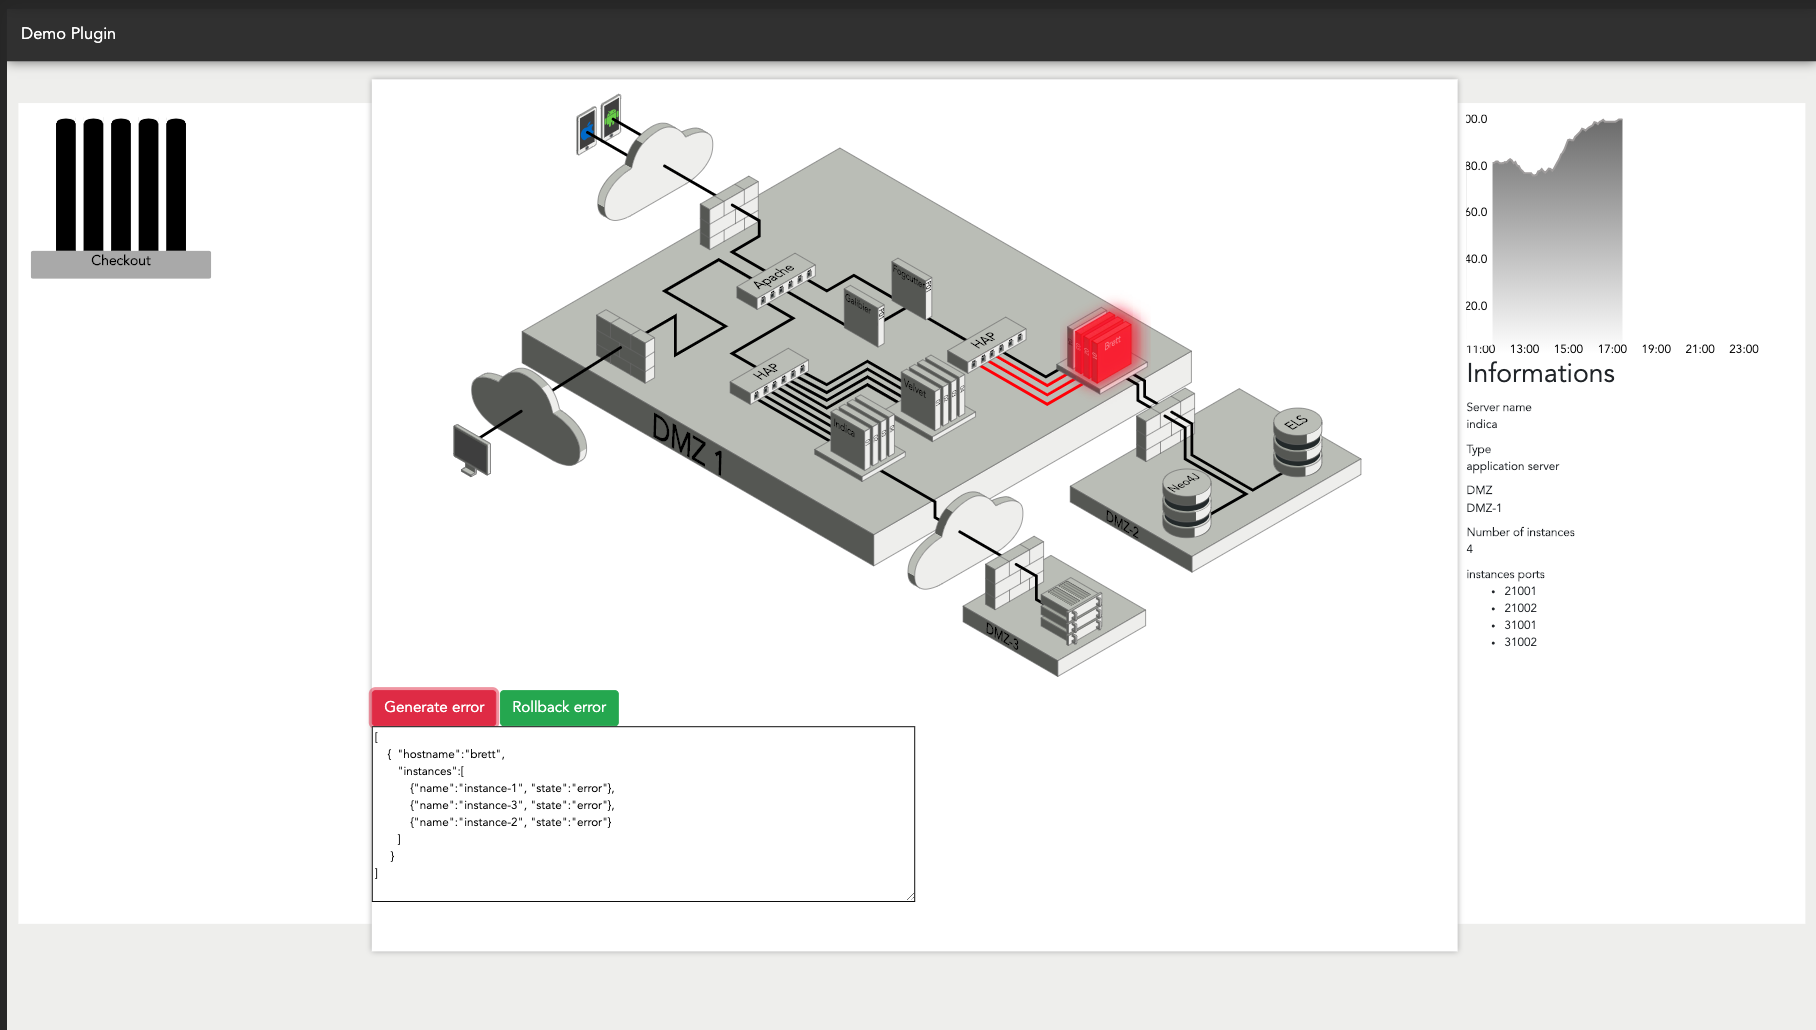
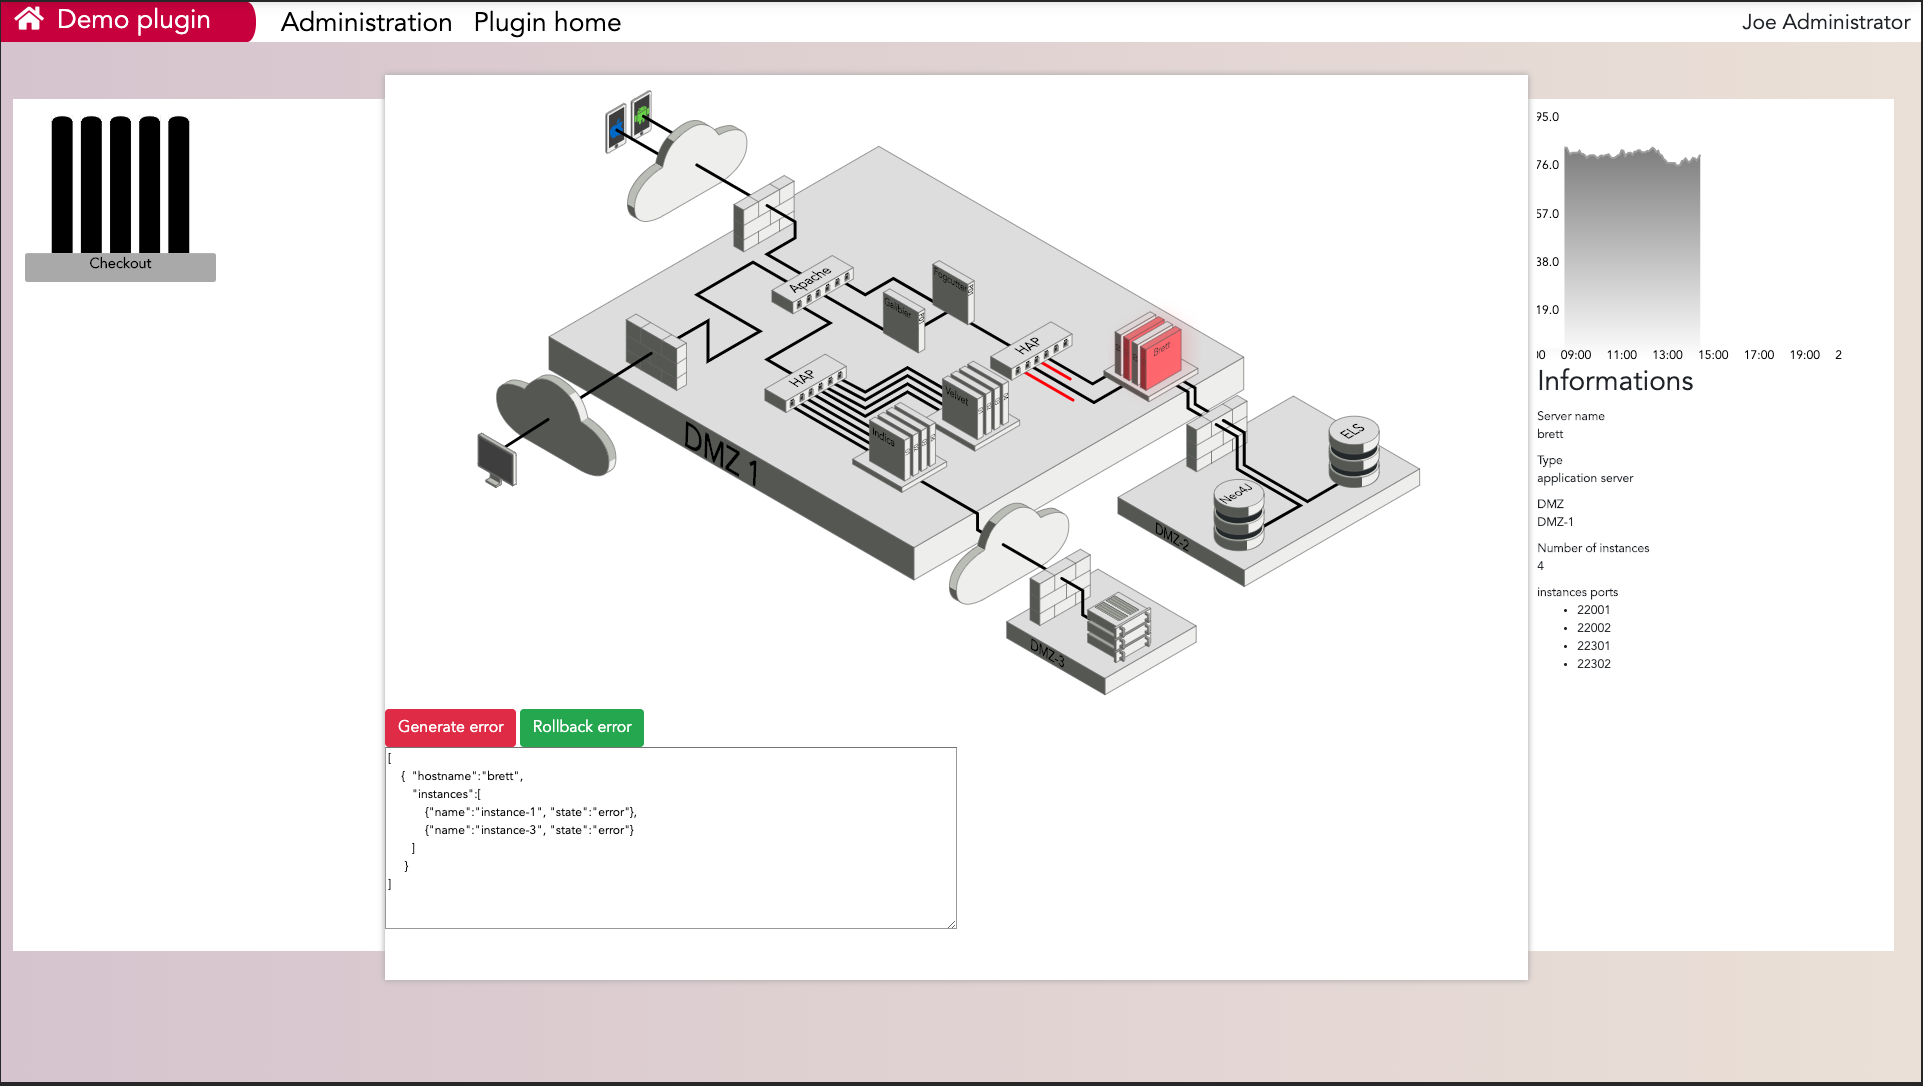
update screenshot

Changed region(s): [[0.0, 0.0, 1.0, 1.0]]

diff --git a/src/main/resources/META-INF/resources/js/app/plugins/inugami_plugin_dashboard_demo/views/plugin.dashboard.view.ts b/src/main/resources/META-INF/resources/js/app/plugins/inugami_plugin_dashboard_demo/views/plugin.dashboard.view.ts
@@ -32,8 +32,8 @@ export class PluginDashboardView implements OnInit{
   private svgMapHandler : any;
 
   public jsonQuery      : string;
-  //public svgMap         : string = 'images/health_map.svg';
-  public svgMap         : string = 'images/prep.svg';
+  public svgMap         : string = 'images/health_map.svg';
+  //public svgMap         : string = 'images/prep.svg';
   
 
   private bddInformationsBinding : any = {
